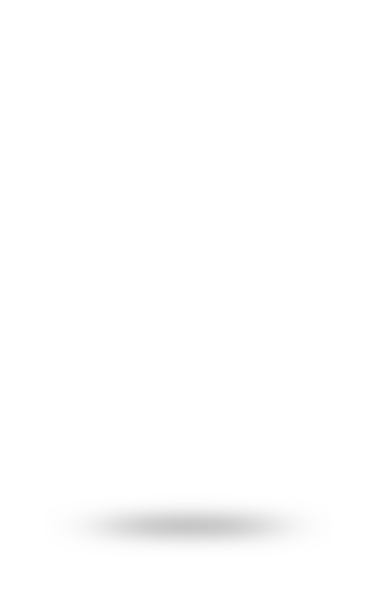
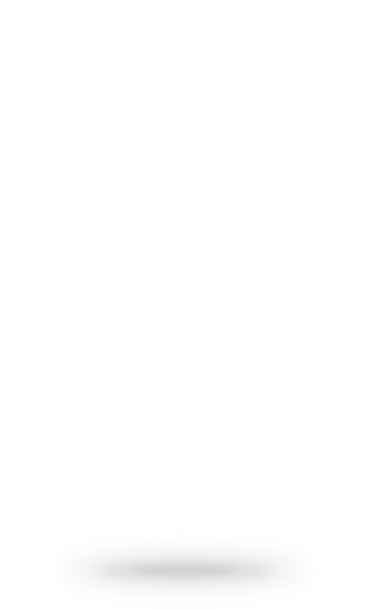
added stars and ie fix

Changed region(s): [[0.2918, 0.841, 0.7294, 0.9656]]

diff --git a/css/bootstrap.css b/css/bootstrap.css
@@ -3966,10 +3966,14 @@ body {
   padding-bottom: 200px;
 }
 .gradient {
+  background: #c51b1b; 
[1 lines of base64/hex data omitted]
   background-repeat: repeat-x;
   background-image: -webkit-linear-gradient(-30deg, #f7a600, #c51b1b);
   background-image: -o-linear-gradient(-30deg, #f7a600, #c51b1b);
+  background: -ms-linear-gradient(-30deg,  #c51b1b 0%,#f7a600 100%); /* IE10+ */
   background-image: linear-gradient(-30deg, #f7a600, #c51b1b);
+  filter: progid:DXImageTransform.Microsoft.gradient( startColorstr='#c51b1b', endColorstr='#f7a600',GradientType=1 ); /* IE6-8 fallback on horizontal gradient */
   position: fixed;
   top: 0;
   left: 0;
@@ -4070,7 +4074,7 @@ body {
   animation-delay: 1.8s;
 }
 .main {
-  padding-bottom:100px: 
+  padding-bottom:200px;
 }
 textarea.error,
 input.error {
@@ -4105,13 +4109,47 @@ input.error {
   animation-fill-mode: forwards;
 }
 .tree {
+    position: relative;
+    opacity: 0;
+    animation: fade-in-transform .2s steps(10, start) 2.2s;
+    -webkit-animation: fade-in-transform .2s steps(10, start) 2.2s;
+    -webkit-animation-fill-mode: forwards;
+    animation-fill-mode: forwards;
+    -webkit-animation-timing-function: ease-out; 
+    animation-timing-function: ease-out;
+}  
+
+@keyframes blink-star {
+  0% { opacity: 0; }
+  10%, 90% { opacity: 1; }
+  100% { opacity: 0; }
+}
+@-webkit-keyframes blink-star {
+  0% { opacity: 0; }
+  10%, 90% { opacity: 1; }
+  100% { opacity: 0; }
+}
+
+.tree:before {
+  content: '';
+  background: url(/dist/images/tree-star.png) center center no-repeat;  
+  background-size: contain;
+  display: inline-block;
+  width: 100%;
+  height: 3em;
+  position: absolute;
+  top: 3em;
+  left: 0;
+  right: 0;
   opacity: 0;
-  animation: fade-in-transform 0.2s steps(10, start) .4s;
-  -webkit-animation: fade-in-transform 0.2s steps(10, start) .4s;
+  animation: blink-star 6s steps(15, start) infinite ;
+  -webkit-animation: blink-star 6s steps(15, start) infinite ;
   -webkit-animation-fill-mode: forwards;
   animation-fill-mode: forwards;
-  -webkit-animation-timing-function: ease-out;
-  animation-timing-function: ease-out;
+  @media (max-width: @screen-sm-max) {
+    height: 1em;
+    top: 1em;
+  }
 }
 .card-content {
   opacity: 0;

diff --git a/css/ie.css b/css/ie.css
@@ -17,3 +17,11 @@ body {
 .container {
 	z-index: 999999;
 }
+
+.tree img {
+	display: none;
+}
+
+.tree {
+	background: url(/dist/images/tree-ie.png);
+}

diff --git a/templates/page.tpl.php b/templates/page.tpl.php
@@ -18,6 +18,13 @@
       <script src="https://oss.maxcdn.com/html5shiv/3.7.2/html5shiv.min.js"></script>
       <script src="https://oss.maxcdn.com/respond/1.4.2/respond.min.js"></script>
     <![endif]-->
+    <!--[if gte IE 9]>
+    <style type="text/css">
+      .gradient {
+         filter: none;
+      }
+    </style>
+    <![endif]-->
   </head>
 
 
